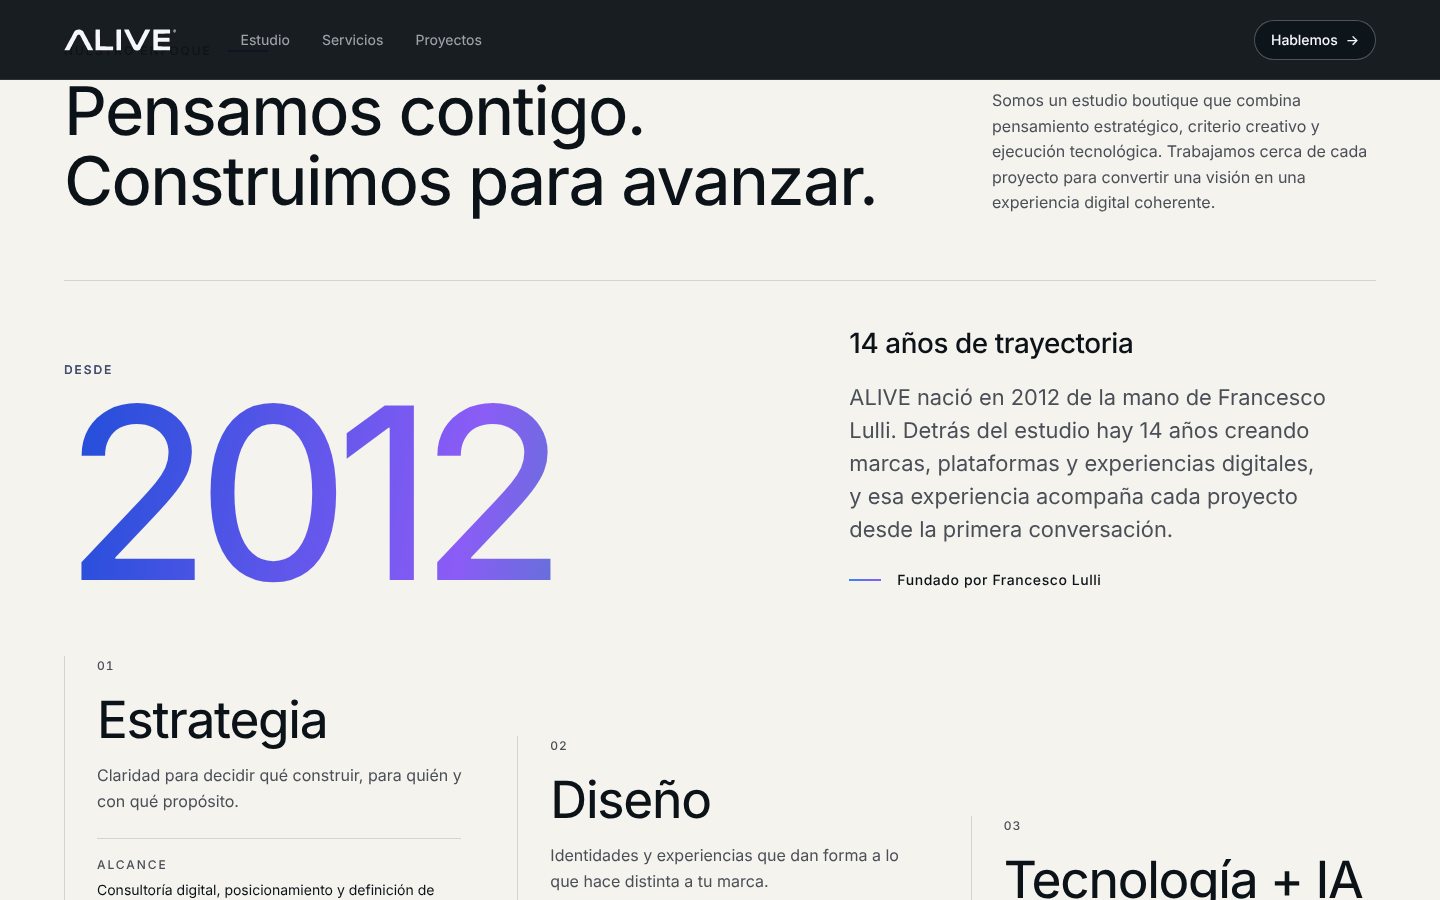
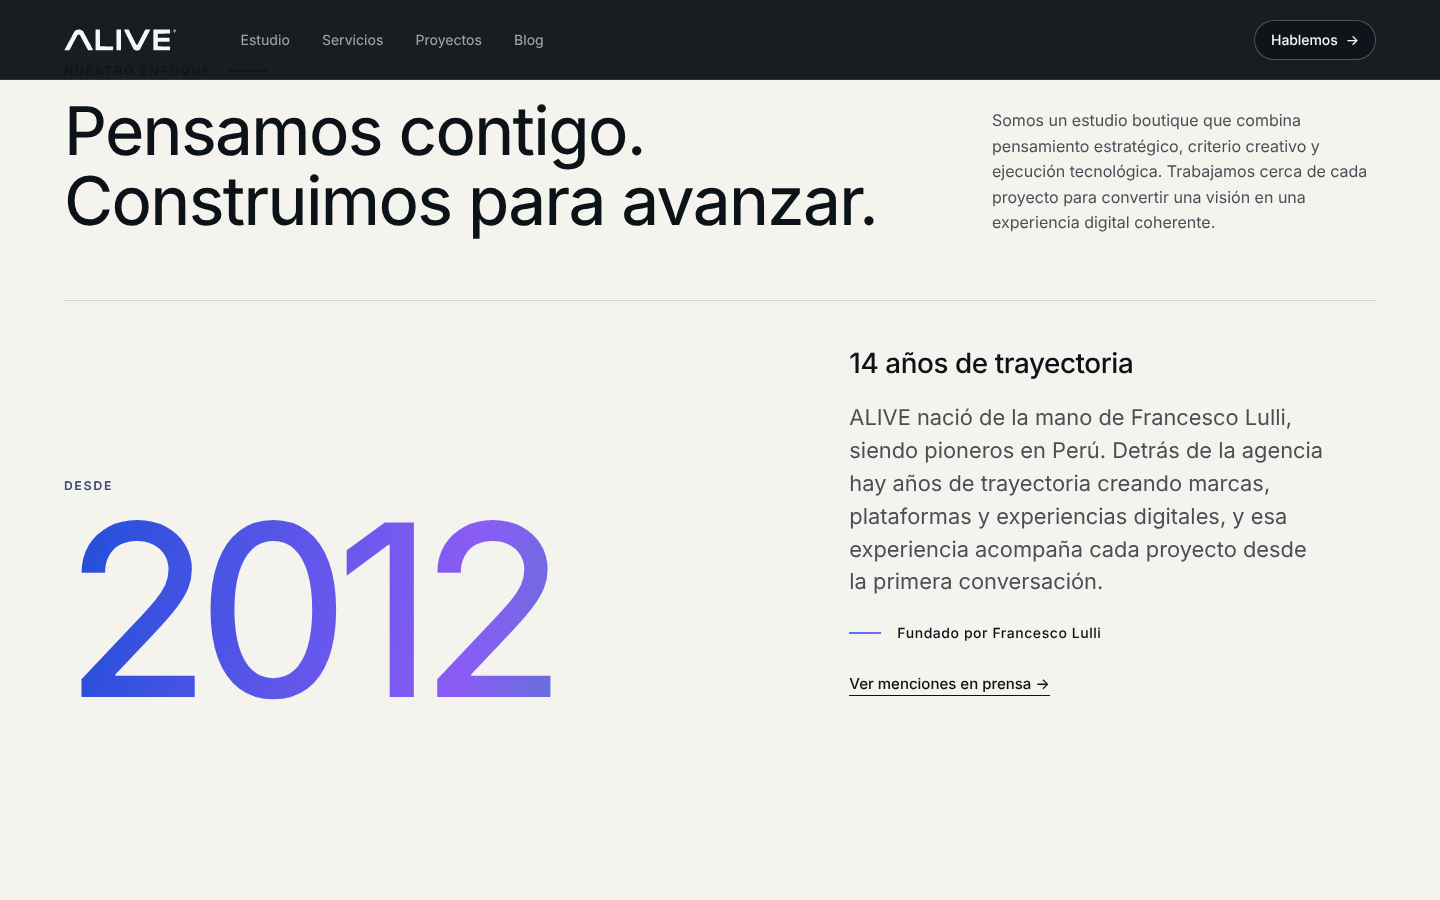
Texto de trayectoria: pioneros en Perú
Claude-Session: https://claude.ai/code/session_01Fv4H8LLei8NxYoDGc9R5Vx

diff --git a/src/content/site.ts b/src/content/site.ts
@@ -117,7 +117,7 @@ export const studio = {
     years: `${years} años de trayectoria`,
     founder: `Fundado por ${brand.founder}`,
     press: { label: 'Ver menciones en prensa', href: '/prensa/' },
-    text: `ALIVE nació en ${FOUNDED} de la mano de ${brand.founder}. Detrás del estudio hay ${years} años creando marcas, plataformas y experiencias digitales, y esa experiencia acompaña cada proyecto desde la primera conversación.`,
+    text: `ALIVE nació de la mano de ${brand.founder}, siendo pioneros en Perú. Detrás de la agencia hay años de trayectoria creando marcas, plataformas y experiencias digitales, y esa experiencia acompaña cada proyecto desde la primera conversación.`,
   },
   text: 'Somos un estudio boutique que combina pensamiento estratégico, criterio creativo y ejecución tecnológica. Trabajamos cerca de cada proyecto para convertir una visión en una experiencia digital coherente.',
   // Propuesta comercial editable: no añadir especializaciones no confirmadas.
